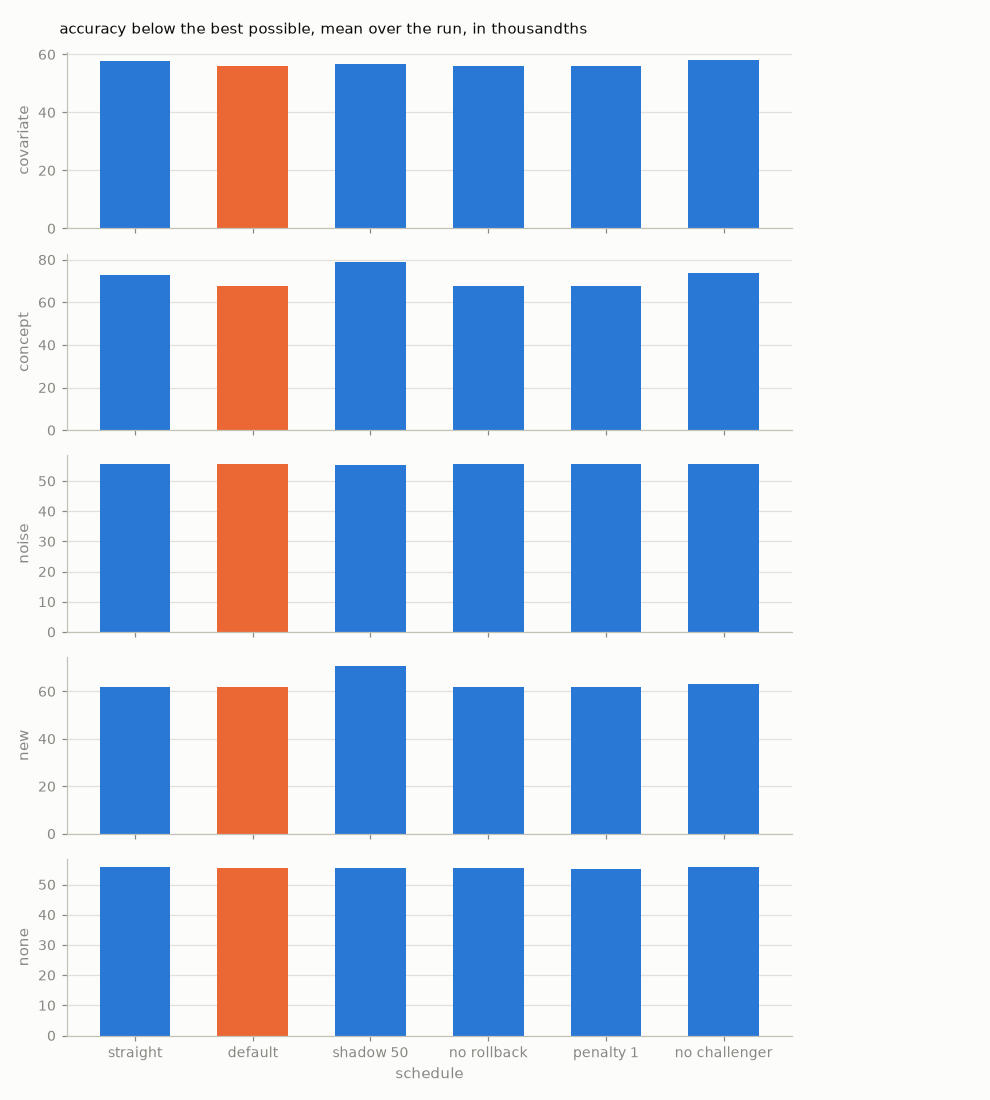
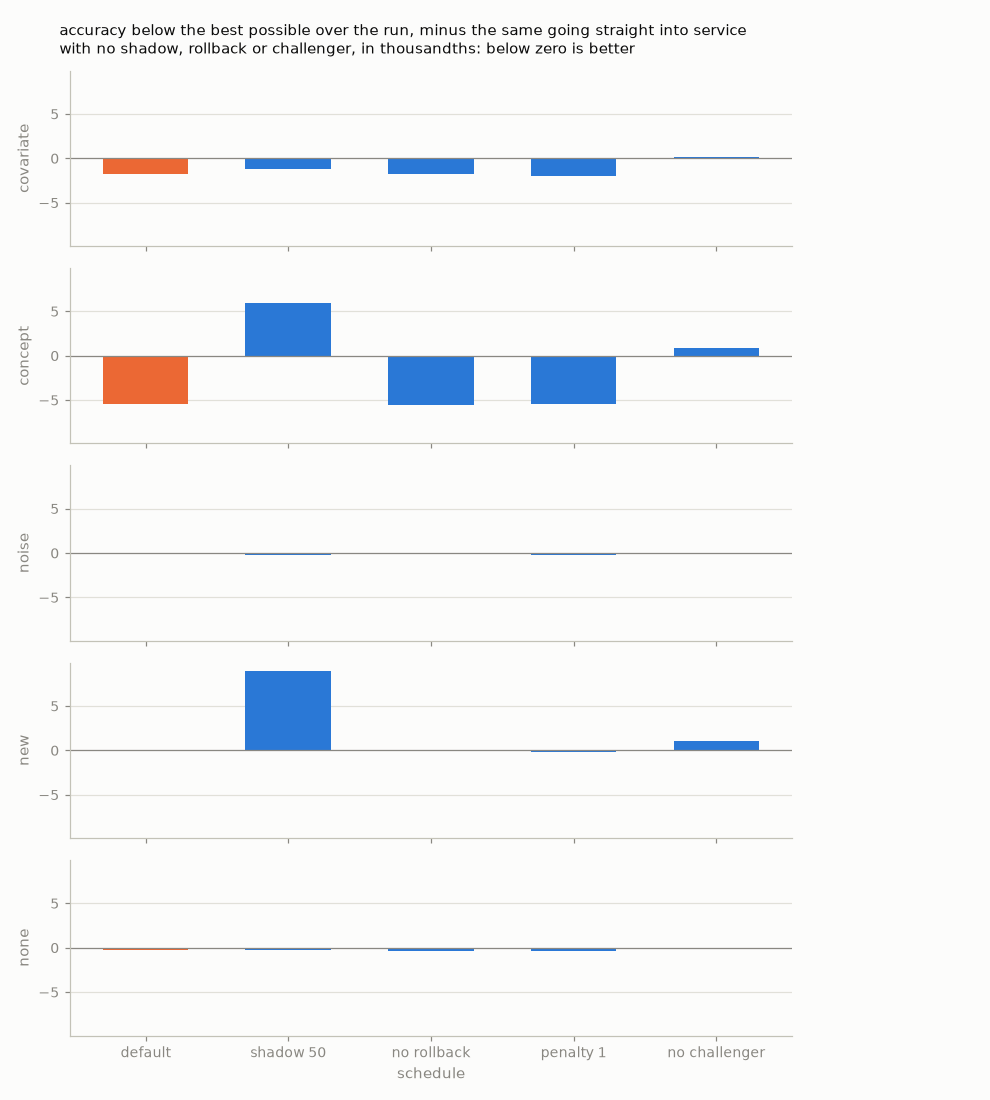
plot each schedule against going straight into service
the figure showed the accuracy each schedule served below the best
possible, and all of them sat on the same floor of about 0.055, what a
linear model can't fit of the boundary, so the differences between
them were a sliver at the top of each bar. it now shows each schedule
minus going straight into service, on one scale for every kind, so a
concept break's 0.005 stands out and label noise's 0.0002 looks like
nothing, which it is.

rerun to draw it: schedules.csv came out byte for byte the same.

diff --git a/rollout.py b/rollout.py
@@ -123,17 +123,26 @@ def write(out, path):
 
 
 def plot(out, path):
+    # against going straight in: the floor every schedule shares would hide the differences
     kinds = [k for k in KINDS if k != "none"] + ["none"]
+    names = [name for name in SCHEDULES if name != "straight"]
     fig, axes = panels([1] * len(kinds), height=10)
-    x = np.arange(len(SCHEDULES))
+    x = np.arange(len(names))
+    diff = {kind: [1000 * (out[kind, name]["lost"] - out[kind, "straight"]["lost"])
+                   for name in names] for kind in kinds}
+    # one scale for all, so a tiny difference looks tiny
+    top = max(max(abs(d) for d in v) for v in diff.values()) * 1.1
     for ax, kind in zip(axes, kinds):
-        lost = [1000 * out[kind, name]["lost"] for name in SCHEDULES]
-        ax.bar(x, lost, width=0.6, color=[SERIES[1] if name == "default" else SERIES[0]
-                                          for name in SCHEDULES])
+        ax.bar(x, diff[kind], width=0.6,
+               color=[SERIES[1] if name == "default" else SERIES[0] for name in names])
+        ax.axhline(0, color=MUTED, linewidth=0.8)
+        ax.set_ylim(-top, top)
         style(ax, kind)
-    axes[-1].set_xticks(x, list(SCHEDULES))
+    axes[-1].set_xticks(x, names)
     axes[-1].set_xlabel("schedule", color=MUTED)
-    save(fig, "accuracy below the best possible, mean over the run, in thousandths", path)
+    save(fig, "accuracy below the best possible over the run, minus the same going straight into "
+              "service\nwith no shadow, rollback or challenger, in thousandths: below zero is better",
+         path)
 
 
 def report(out):
